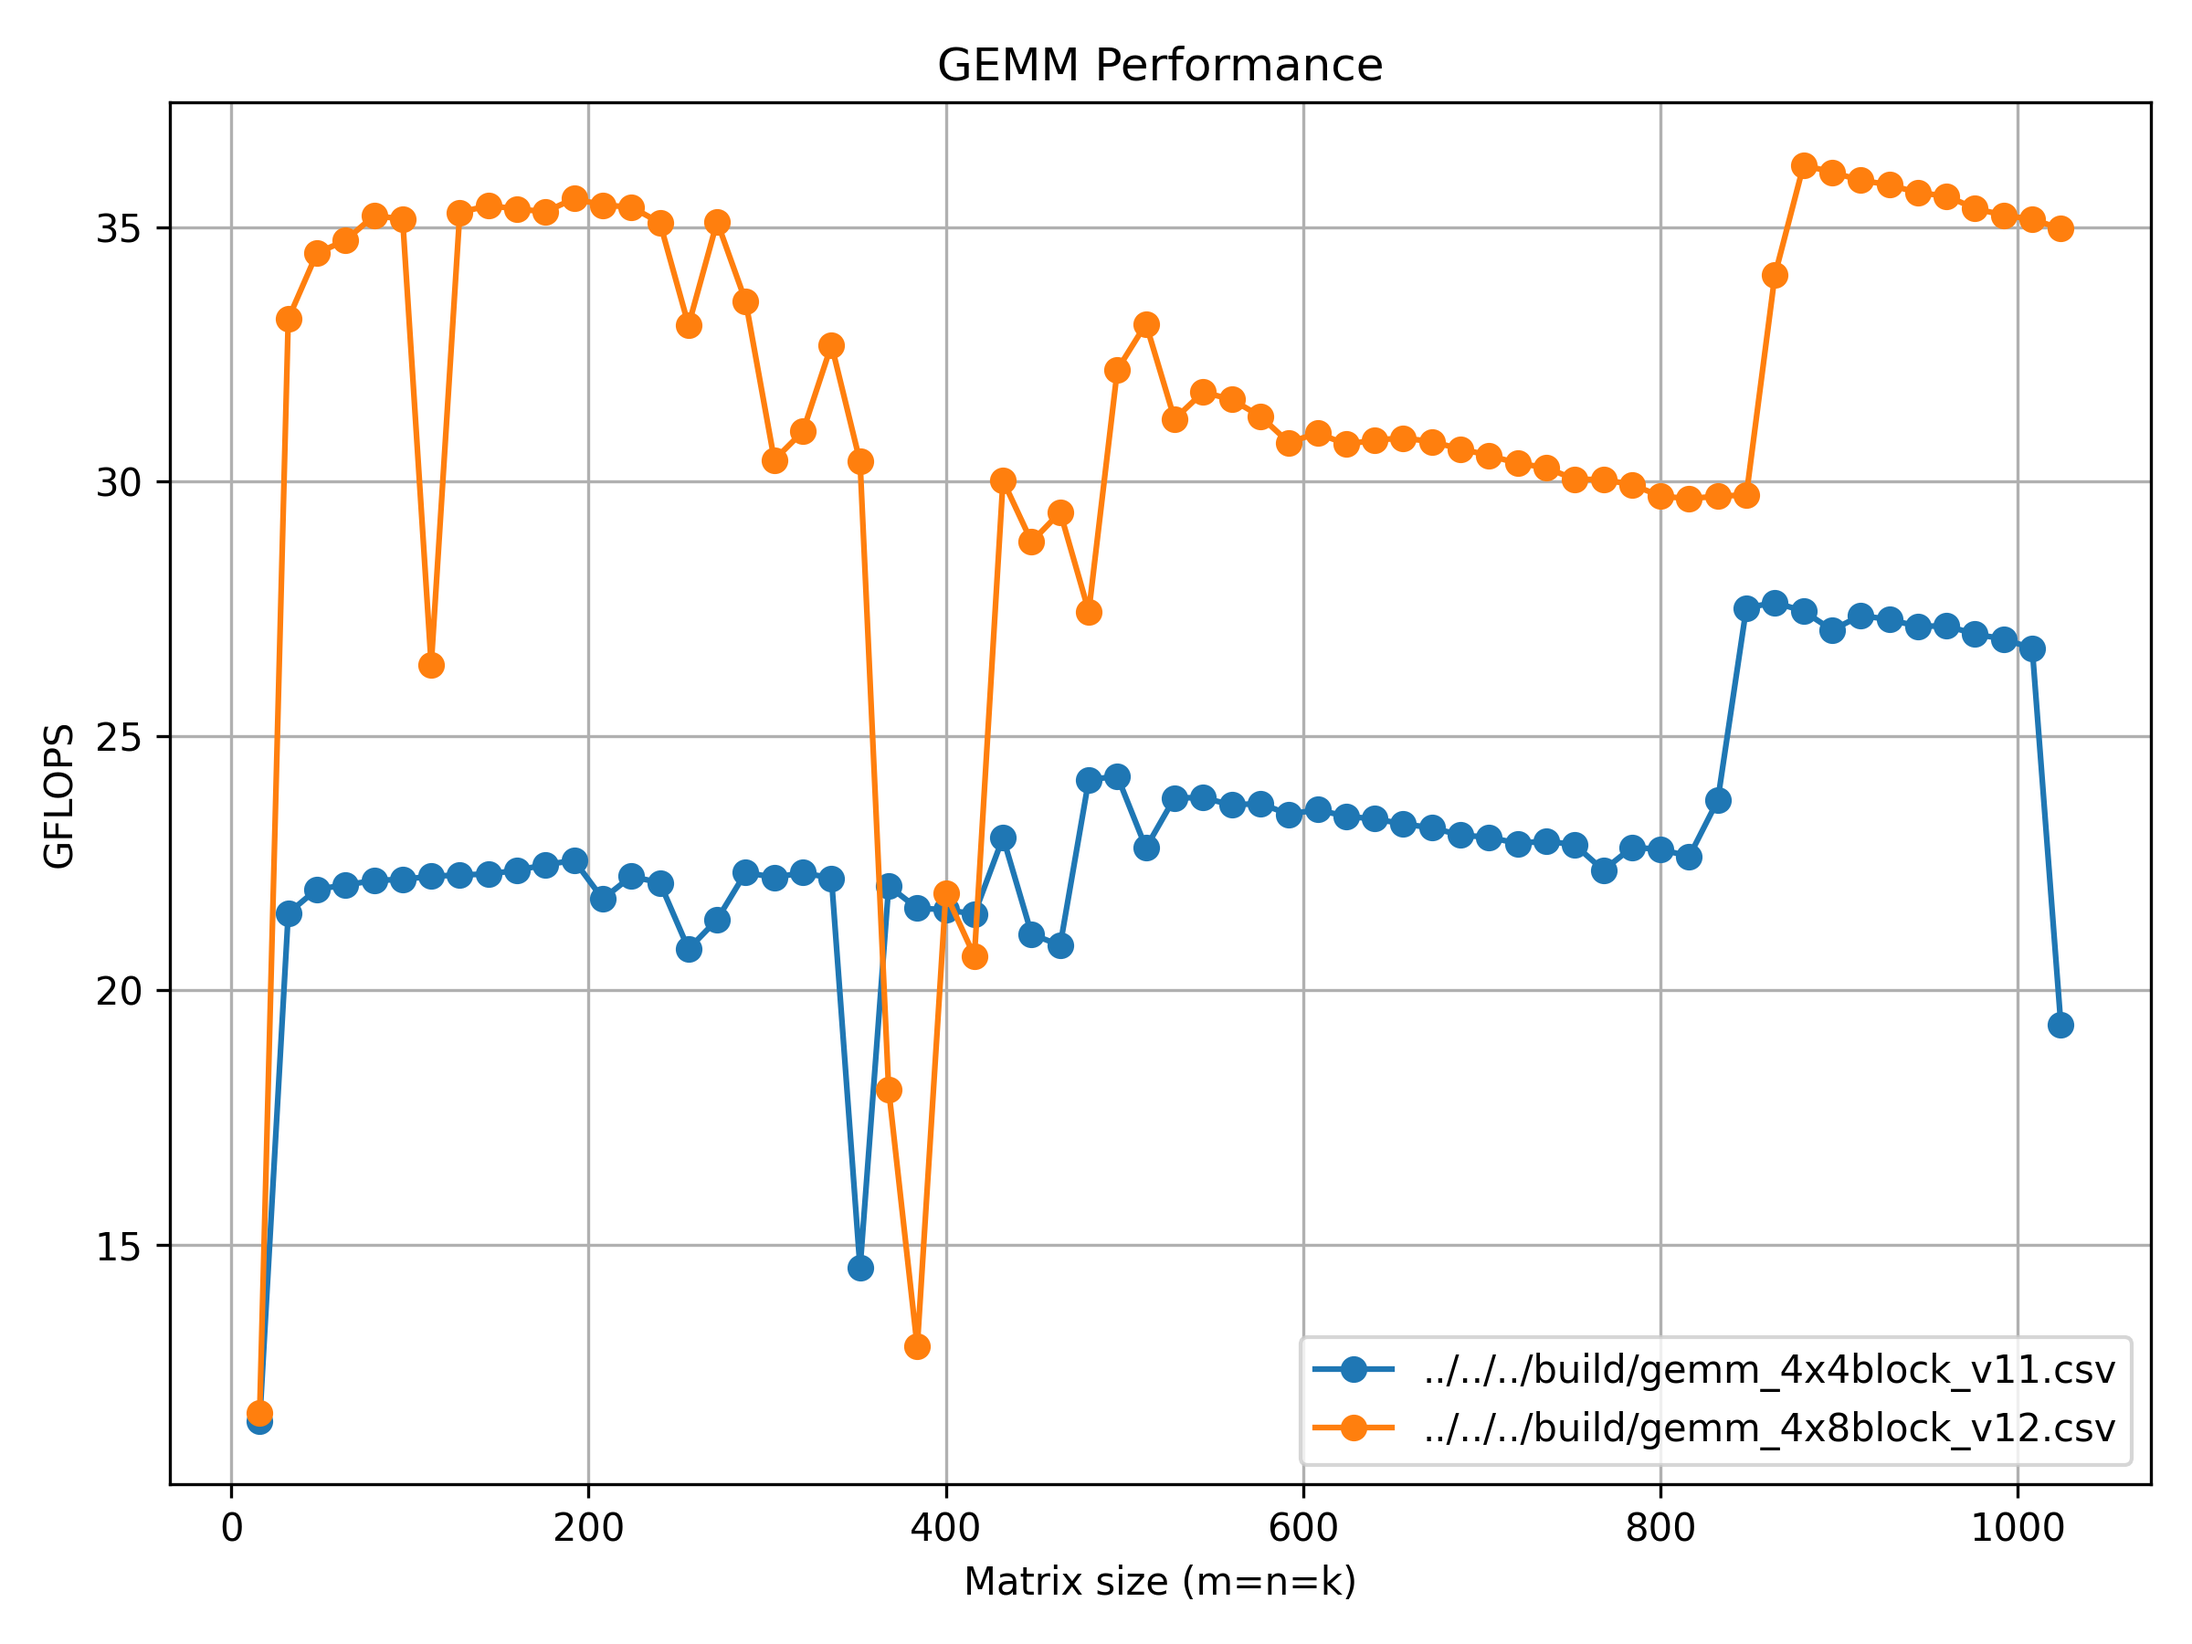
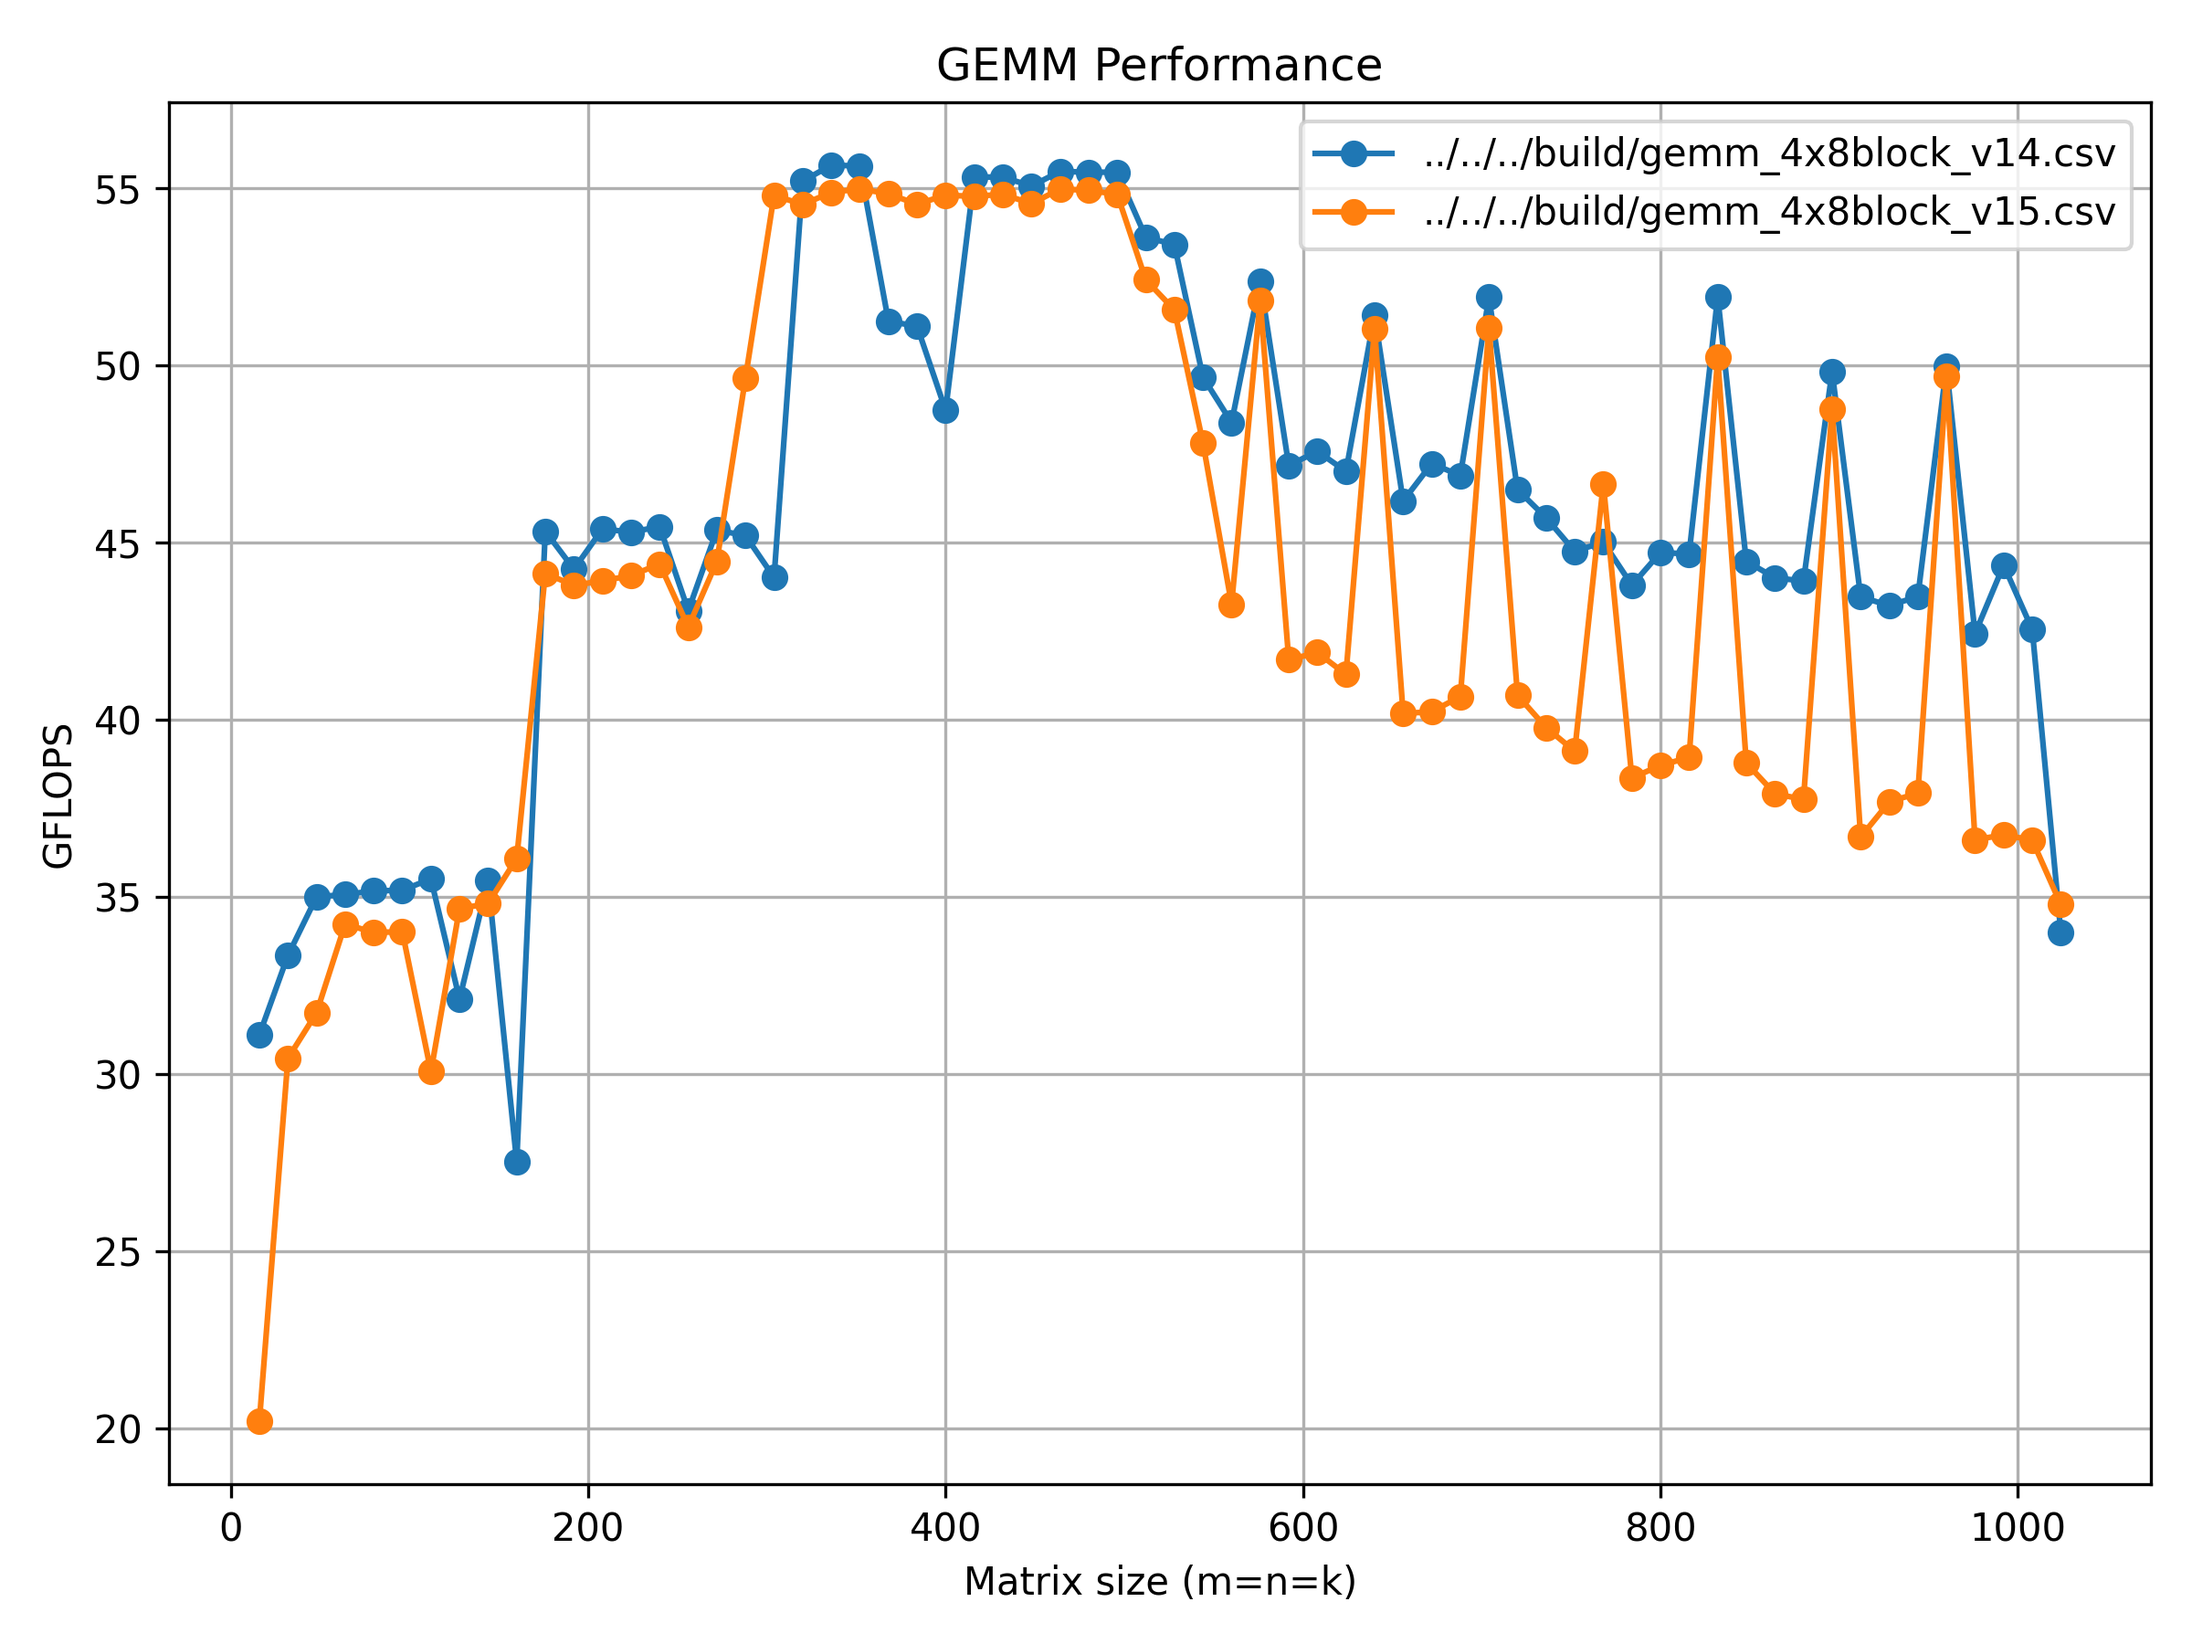
add gemm_4x8block v13 v14 v15

diff --git a/src/cpu/gemm/gemm_4x8block_v15.cpp b/src/cpu/gemm/gemm_4x8block_v15.cpp
@@ -1,0 +1,110 @@
+#include "gemm.h"
+#include <algorithm>
+#include <immintrin.h>
+#include <xmmintrin.h>
+
+typedef union {
+  __m256 v;
+  float d[8];
+} vec_t;
+
+static void addDot4x8(int k, float *A, int lda, float *B, int ldb, float *C,
+                      int ldc) {
+  vec_t c0_vec, c1_vec, c2_vec, c3_vec;
+  c0_vec.v = _mm256_load_ps(&C(0, 0));
+  c1_vec.v = _mm256_load_ps(&C(1, 0));
+  c2_vec.v = _mm256_load_ps(&C(2, 0));
+  c3_vec.v = _mm256_load_ps(&C(3, 0));
+
+  vec_t a0_vec, a1_vec, a2_vec, a3_vec;
+  a0_vec.v = _mm256_set1_ps(0.00f);
+  a1_vec.v = _mm256_set1_ps(0.00f);
+  a2_vec.v = _mm256_set1_ps(0.00f);
+  a3_vec.v = _mm256_set1_ps(0.00f);
+
+  float *bp0_ptr = &B(0, 0);
+  float *bp1_ptr = &B(0, 1);
+  float *bp2_ptr = &B(0, 2);
+  float *bp3_ptr = &B(0, 3);
+  float *bp4_ptr = &B(0, 4);
+  float *bp5_ptr = &B(0, 5);
+  float *bp6_ptr = &B(0, 6);
+  float *bp7_ptr = &B(0, 7);
+
+  vec_t b_vec;
+  b_vec.v = _mm256_set1_ps(0.00f);
+
+  for (int p = 0; p < k; ++p) {
+    a0_vec.v = _mm256_set1_ps(A(0, p));
+    a1_vec.v = _mm256_set1_ps(A(1, p));
+    a2_vec.v = _mm256_set1_ps(A(2, p));
+    a3_vec.v = _mm256_set1_ps(A(3, p));
+
+    b_vec.v = _mm256_set_ps(*bp7_ptr, *bp6_ptr, *bp5_ptr, *bp4_ptr, *bp3_ptr,
+                            *bp2_ptr, *bp1_ptr, *bp0_ptr);
+
+    c0_vec.v = _mm256_fmadd_ps(a0_vec.v, b_vec.v, c0_vec.v);
+    c1_vec.v = _mm256_fmadd_ps(a1_vec.v, b_vec.v, c1_vec.v);
+    c2_vec.v = _mm256_fmadd_ps(a2_vec.v, b_vec.v, c2_vec.v);
+    c3_vec.v = _mm256_fmadd_ps(a3_vec.v, b_vec.v, c3_vec.v);
+
+    bp0_ptr += ldb;
+    bp1_ptr += ldb;
+    bp2_ptr += ldb;
+    bp3_ptr += ldb;
+    bp4_ptr += ldb;
+    bp5_ptr += ldb;
+    bp6_ptr += ldb;
+    bp7_ptr += ldb;
+  }
+
+  _mm256_store_ps(&C(0, 0), c0_vec.v);
+  _mm256_store_ps(&C(1, 0), c1_vec.v);
+  _mm256_store_ps(&C(2, 0), c2_vec.v);
+  _mm256_store_ps(&C(3, 0), c3_vec.v);
+}
+
+static void packedMatrixA(float* A, float* packedA, int k, int lda) {
+  float* a0_ptr = A;
+  float* a1_ptr = A + lda;
+  float* a2_ptr = A + 2 * lda;
+  float* a3_ptr = A + 3 * lda;
+  
+  for (int p = 0; p < k; ++ p) {
+    *packedA++ = *a0_ptr++;
+    *packedA++ = *a1_ptr++;
+    *packedA++ = *a2_ptr++;
+    *packedA++ = *a3_ptr++;
+  }
+}
+
+static void innerKernel(float *A, float *B, float *C, int m, int n, int k,
+                        int lda, int ldb, int ldc) {
+  const int MR = 4, NR = 8;
+  float packedA[MR * k];
+  for (int i = 0; i < m; i += MR) {
+    packedMatrixA(&A(i, 0), packedA, k, lda);
+    for (int j = 0; j < n; j += NR) {
+      addDot4x8(k, packedA, k, &B(0, j),ldb, &C(i, j), ldc);
+    }
+  }
+}
+
+
+void gemm_4x8block_v15(float *A, float *B, float *C, int m, int n, int k) {
+  int lda = k, ldb = n, ldc = n;
+  const int MC = 256;
+  const int NC = 256;
+  const int KC = 128;
+
+  for (int j = 0; j < n; j += NC) {
+    int jb = std::min(n - j, NC);
+    for (int p = 0; p < k; p += KC) {
+      int pb = std::min(k - p, KC);
+      for (int i = 0; i < m; i += MC) {
+        int ib = std::min(m - i, MC);
+        innerKernel(&A(i, p), &B(p, j), &C(i, j), ib, jb, pb, lda, ldb, ldc);
+      }
+    }
+  }
+}

diff --git a/src/cpu/gemm/gemm_benchmark.cpp b/src/cpu/gemm/gemm_benchmark.cpp
@@ -31,6 +31,9 @@ std::unordered_map<std::string, gemm_func> gemm_map = {
     {"gemm_4x4block_v10", gemm_4x4block_v10},
     {"gemm_4x4block_v11", gemm_4x4block_v11},
     {"gemm_4x8block_v12", gemm_4x8block_v12},
+    {"gemm_4x8block_v13", gemm_4x8block_v13},
+    {"gemm_4x8block_v14", gemm_4x8block_v14},
+    {"gemm_4x8block_v15", gemm_4x8block_v15},
 };
 
 double gflops(int M, int N, int K, double seconds) {
@@ -41,12 +44,15 @@ double gflops(int M, int N, int K, double seconds) {
 void warmUp() {
   const int M = 128, N = 128, K = 128;
   const int ALIGNMENT = 32;
-  float* A = reinterpret_cast<float*>(std::aligned_alloc(ALIGNMENT, M * K * sizeof(float)));
-  float* B = reinterpret_cast<float*>(std::aligned_alloc(ALIGNMENT, K * N * sizeof(float)));
-  float* C = reinterpret_cast<float*>(std::aligned_alloc(ALIGNMENT, M * N * sizeof(float)));
+  float *A = reinterpret_cast<float *>(
+      std::aligned_alloc(ALIGNMENT, M * K * sizeof(float)));
+  float *B = reinterpret_cast<float *>(
+      std::aligned_alloc(ALIGNMENT, K * N * sizeof(float)));
+  float *C = reinterpret_cast<float *>(
+      std::aligned_alloc(ALIGNMENT, M * N * sizeof(float)));
   const int repeat = 3;
 
-  for (int i = 0; i < repeat; ++ i) {
+  for (int i = 0; i < repeat; ++i) {
     gemm_blas(A, B, C, M, N, K);
   }
 
@@ -59,22 +65,28 @@ template <typename Func>
 void benchmark(std::ofstream &file, const std::string &name, Func f, float *A,
                float *B, float *C, int m, int n, int k) {
   const int ALIGNMENT = 32;
+  const int REPEAT = 100;
 
-  A = reinterpret_cast<float *>(std::aligned_alloc(ALIGNMENT, m * k * sizeof(float)));
+  A = reinterpret_cast<float *>(
+      std::aligned_alloc(ALIGNMENT, m * k * sizeof(float)));
   initMatrix(A, m, k, -1.0f, 1.0f);
-  B = reinterpret_cast<float *>(std::aligned_alloc(ALIGNMENT, k * n * sizeof(float)));
+  B = reinterpret_cast<float *>(
+      std::aligned_alloc(ALIGNMENT, k * n * sizeof(float)));
   initMatrix(B, k, n, -1.0f, 1.0f);
-  C = reinterpret_cast<float *>(std::aligned_alloc(ALIGNMENT, m * n * sizeof(float)));
+  C = reinterpret_cast<float *>(
+      std::aligned_alloc(ALIGNMENT, m * n * sizeof(float)));
   initMatrix(C, m, n, -1.0f, 1.0f);
 
   auto start = std::chrono::high_resolution_clock::now();
-  f(A, B, C, m, n, k);
+  for (int i = 0; i < REPEAT; ++i) {
+    f(A, B, C, m, n, k);
+  }
   auto end = std::chrono::high_resolution_clock::now();
   std::chrono::duration<double> elapsed = end - start;
 
   file << "[" << name << "] [m, n, k]: " << m
-       << " Time: " << elapsed.count() * 1000
-       << " ms, GFLOPS: " << gflops(m, n, k, elapsed.count()) << "\n";
+       << " Time: " << elapsed.count() * 1000 / REPEAT
+       << " ms, GFLOPS: " << gflops(m, n, k, elapsed.count() / REPEAT) << "\n";
 
   std::free(A);
   std::free(B);

diff --git a/src/cpu/gemm/gemm_4x8block_v14.cpp b/src/cpu/gemm/gemm_4x8block_v14.cpp
@@ -1,0 +1,93 @@
+#include "gemm.h"
+#include <algorithm>
+#include <immintrin.h>
+#include <xmmintrin.h>
+
+typedef union {
+  __m256 v;
+  float d[8];
+} vec_t;
+
+static void addDot4x8(int k, float *A, int lda, float *B, int ldb, float *C,
+                      int ldc) {
+  vec_t c0_vec, c1_vec, c2_vec, c3_vec;
+  c0_vec.v = _mm256_load_ps(&C(0, 0));
+  c1_vec.v = _mm256_load_ps(&C(1, 0));
+  c2_vec.v = _mm256_load_ps(&C(2, 0));
+  c3_vec.v = _mm256_load_ps(&C(3, 0));
+
+  vec_t a0_vec, a1_vec, a2_vec, a3_vec;
+  a0_vec.v = _mm256_set1_ps(0.00f);
+  a1_vec.v = _mm256_set1_ps(0.00f);
+  a2_vec.v = _mm256_set1_ps(0.00f);
+  a3_vec.v = _mm256_set1_ps(0.00f);
+
+  float *bp0_ptr = &B(0, 0);
+  float *bp1_ptr = &B(0, 1);
+  float *bp2_ptr = &B(0, 2);
+  float *bp3_ptr = &B(0, 3);
+  float *bp4_ptr = &B(0, 4);
+  float *bp5_ptr = &B(0, 5);
+  float *bp6_ptr = &B(0, 6);
+  float *bp7_ptr = &B(0, 7);
+
+  vec_t b_vec;
+  b_vec.v = _mm256_set1_ps(0.00f);
+
+  for (int p = 0; p < k; ++p) {
+    a0_vec.v = _mm256_set1_ps(A(0, p));
+    a1_vec.v = _mm256_set1_ps(A(1, p));
+    a2_vec.v = _mm256_set1_ps(A(2, p));
+    a3_vec.v = _mm256_set1_ps(A(3, p));
+
+    b_vec.v = _mm256_set_ps(*bp7_ptr, *bp6_ptr, *bp5_ptr, *bp4_ptr, *bp3_ptr,
+                            *bp2_ptr, *bp1_ptr, *bp0_ptr);
+
+    c0_vec.v = _mm256_fmadd_ps(a0_vec.v, b_vec.v, c0_vec.v);
+    c1_vec.v = _mm256_fmadd_ps(a1_vec.v, b_vec.v, c1_vec.v);
+    c2_vec.v = _mm256_fmadd_ps(a2_vec.v, b_vec.v, c2_vec.v);
+    c3_vec.v = _mm256_fmadd_ps(a3_vec.v, b_vec.v, c3_vec.v);
+
+    bp0_ptr += ldb;
+    bp1_ptr += ldb;
+    bp2_ptr += ldb;
+    bp3_ptr += ldb;
+    bp4_ptr += ldb;
+    bp5_ptr += ldb;
+    bp6_ptr += ldb;
+    bp7_ptr += ldb;
+  }
+
+  _mm256_store_ps(&C(0, 0), c0_vec.v);
+  _mm256_store_ps(&C(1, 0), c1_vec.v);
+  _mm256_store_ps(&C(2, 0), c2_vec.v);
+  _mm256_store_ps(&C(3, 0), c3_vec.v);
+}
+
+static void innerKernel(float *A, float *B, float *C, int m, int n, int k, int lda,
+                 int ldb, int ldc) {
+  const int MR = 4, NR = 8;
+  for (int i = 0; i < m; i += MR) {
+    for (int j = 0; j < n; j += NR) {
+      addDot4x8(k, &A(i, 0), lda, &B(0, j), ldb, &C(i, j), ldc);
+    }
+  }
+}
+
+void gemm_4x8block_v14(float *A, float *B, float *C, int m, int n, int k) {
+  int lda = k, ldb = n, ldc = n;
+  const int MC = 256;
+  const int NC = 256;
+  const int KC = 128;
+
+  for (int j = 0; j < n; j += NC) {
+    int jb = std::min(n - j, NC);
+    for (int p = 0; p < k; p += KC) {
+      int pb = std::min(k - p, KC);
+      for (int i = 0; i < m; i += MC) {
+        int ib = std::min(m - i, MC);
+        innerKernel(&A(i, p), &B(p, j), &C(i, j), ib, jb, pb, lda, ldb, ldc);
+      }
+    }
+  }
+}

diff --git a/src/cpu/gemm/gemm_4x8block_v13.cpp b/src/cpu/gemm/gemm_4x8block_v13.cpp
@@ -1,0 +1,88 @@
+#include "gemm.h"
+#include <algorithm>
+#include <immintrin.h>
+#include <xmmintrin.h>
+
+typedef union {
+  __m256 v;
+  float d[8];
+} vec_t;
+
+static void addDot4x8(int k, float *A, int lda, float *B, int ldb, float *C,
+                      int ldc) {
+  vec_t c0_vec, c1_vec, c2_vec, c3_vec;
+  c0_vec.v = _mm256_load_ps(&C(0, 0));
+  c1_vec.v = _mm256_load_ps(&C(1, 0));
+  c2_vec.v = _mm256_load_ps(&C(2, 0));
+  c3_vec.v = _mm256_load_ps(&C(3, 0));
+
+  vec_t a0_vec, a1_vec, a2_vec, a3_vec;
+  a0_vec.v = _mm256_set1_ps(0.00f);
+  a1_vec.v = _mm256_set1_ps(0.00f);
+  a2_vec.v = _mm256_set1_ps(0.00f);
+  a3_vec.v = _mm256_set1_ps(0.00f);
+
+  float *bp0_ptr = &B(0, 0);
+  float *bp1_ptr = &B(0, 1);
+  float *bp2_ptr = &B(0, 2);
+  float *bp3_ptr = &B(0, 3);
+  float *bp4_ptr = &B(0, 4);
+  float *bp5_ptr = &B(0, 5);
+  float *bp6_ptr = &B(0, 6);
+  float *bp7_ptr = &B(0, 7);
+
+  vec_t b_vec;
+  b_vec.v = _mm256_set1_ps(0.00f);
+
+  for (int p = 0; p < k; ++p) {
+    a0_vec.v = _mm256_set1_ps(A(0, p));
+    a1_vec.v = _mm256_set1_ps(A(1, p));
+    a2_vec.v = _mm256_set1_ps(A(2, p));
+    a3_vec.v = _mm256_set1_ps(A(3, p));
+
+    b_vec.v = _mm256_set_ps(*bp7_ptr, *bp6_ptr, *bp5_ptr, *bp4_ptr, *bp3_ptr,
+                            *bp2_ptr, *bp1_ptr, *bp0_ptr);
+
+    c0_vec.v = _mm256_fmadd_ps(a0_vec.v, b_vec.v, c0_vec.v);
+    c1_vec.v = _mm256_fmadd_ps(a1_vec.v, b_vec.v, c1_vec.v);
+    c2_vec.v = _mm256_fmadd_ps(a2_vec.v, b_vec.v, c2_vec.v);
+    c3_vec.v = _mm256_fmadd_ps(a3_vec.v, b_vec.v, c3_vec.v);
+
+    bp0_ptr += ldb;
+    bp1_ptr += ldb;
+    bp2_ptr += ldb;
+    bp3_ptr += ldb;
+    bp4_ptr += ldb;
+    bp5_ptr += ldb;
+    bp6_ptr += ldb;
+    bp7_ptr += ldb;
+  }
+
+  _mm256_store_ps(&C(0, 0), c0_vec.v);
+  _mm256_store_ps(&C(1, 0), c1_vec.v);
+  _mm256_store_ps(&C(2, 0), c2_vec.v);
+  _mm256_store_ps(&C(3, 0), c3_vec.v);
+}
+
+void innerKernel(float *A, float *B, float *C, int m, int n, int k, int lda,
+                 int ldb, int ldc) {
+  const int MR = 4, NR = 8;
+  for (int i = 0; i < m; i += MR) {
+    for (int j = 0; j < n; j += NR) {
+      addDot4x8(k, &A(i, 0), lda, &B(0, j), ldb, &C(i, j), ldc);
+    }
+  }
+}
+
+void gemm_4x8block_v13(float *A, float *B, float *C, int m, int n, int k) {
+  int lda = k, ldb = n, ldc = n;
+  const int MC = 256;
+  const int KC = 128;
+  for (int p = 0; p < k; p += KC) {
+    int pb = std::min(k - p, KC);
+    for (int i = 0; i < m; i += MC) {
+      int ib = std::min(m - i, MC);
+      innerKernel(&A(i, p), &B(p, 0), &C(i, 0), ib, n, pb, lda, ldb, ldc);
+    }
+  }
+}

diff --git a/src/cpu/gemm/gemm.h b/src/cpu/gemm/gemm.h
@@ -56,4 +56,10 @@ void gemm_4x4block_v11(float* A, float* B, float* C, int m, int n, int k);
 
 void gemm_4x8block_v12(float* A, float* B, float* C, int m, int n, int k);
 
+void gemm_4x8block_v13(float* A, float* B, float* C, int m, int n, int k);
+
+void gemm_4x8block_v14(float* A, float* B, float* C, int m, int n, int k);
+
+void gemm_4x8block_v15(float* A, float* B, float* C, int m, int n, int k);
+
 void gemm_blas(float *A, float *B, float *C, int m, int n, int k);

diff --git a/src/cpu/gemm/gemm_test.cpp b/src/cpu/gemm/gemm_test.cpp
@@ -30,6 +30,9 @@ std::map<std::string, gemm_func> gemm_map = {
     {"gemm_4x4block_v10", gemm_4x4block_v10},
     {"gemm_4x4block_v11", gemm_4x4block_v11},
     {"gemm_4x8block_v12", gemm_4x8block_v12},
+    {"gemm_4x8block_v13", gemm_4x8block_v13},
+    {"gemm_4x8block_v14", gemm_4x8block_v14},
+    {"gemm_4x8block_v15", gemm_4x8block_v15},
 };
 
 template <typename Func> void launchTest(const std::string &gemm_name, Func f) {
